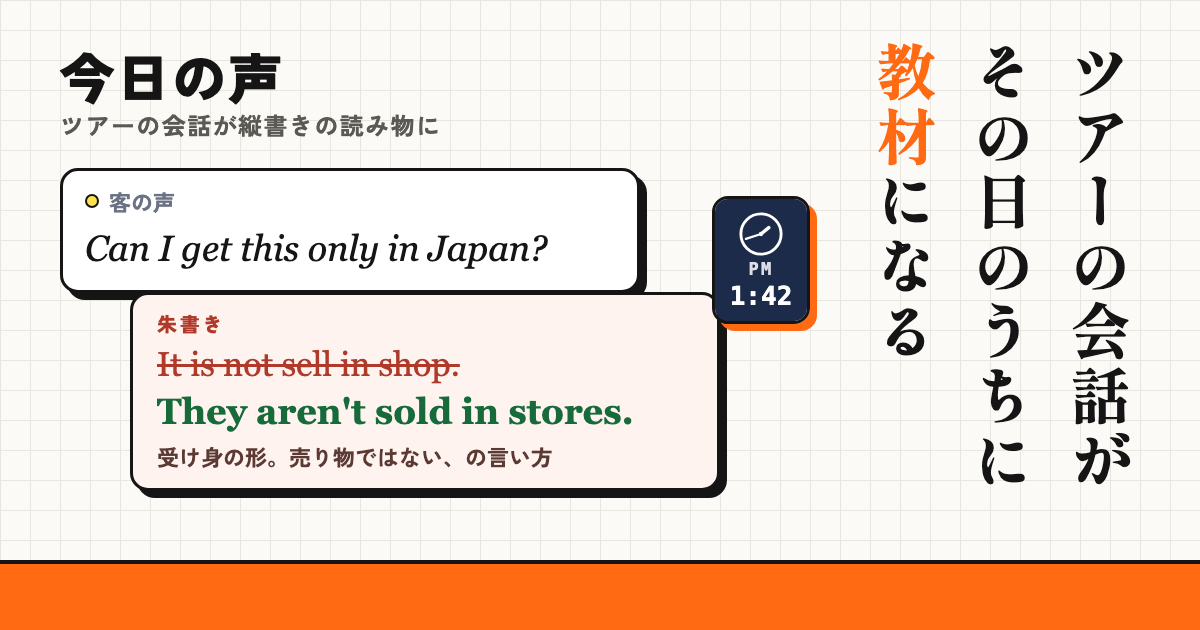
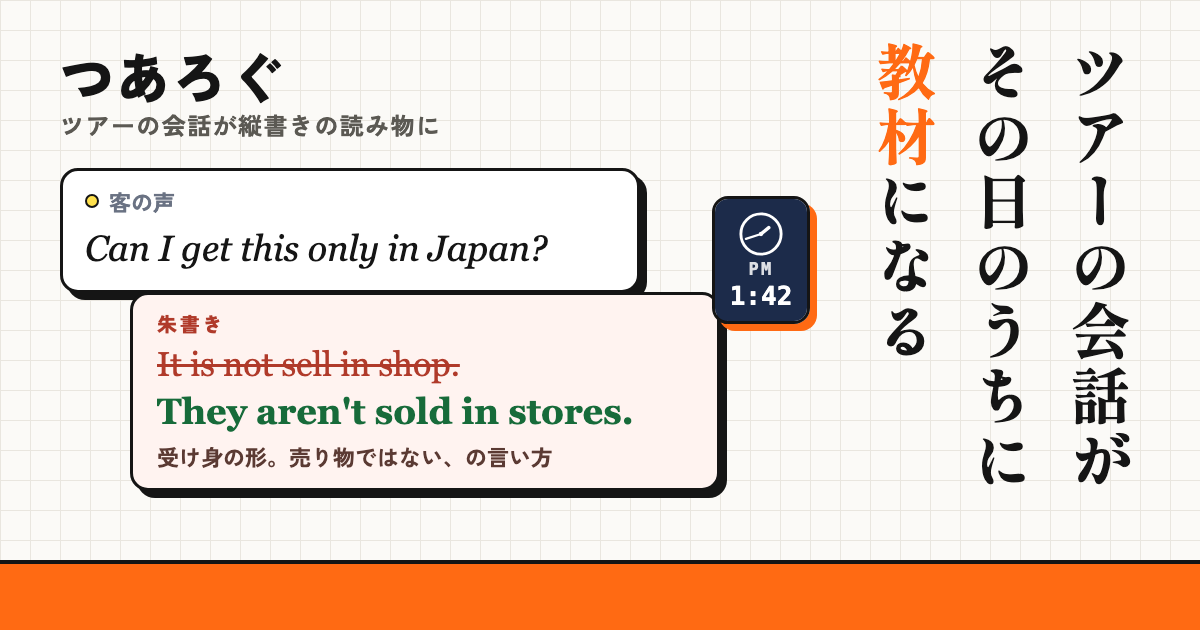
サービス名を今日の声からつあろぐ(Tour Log)に改名

Changed region(s): [[0.0617, 0.0905, 0.2467, 0.181]]

diff --git a/c1/index.html b/c1/index.html
@@ -1,11 +1,11 @@
 <!doctype html><html lang="ja"><head><meta charset="utf-8"><meta name="viewport" content="width=device-width,initial-scale=1,viewport-fit=cover">
 <meta name="robots" content="noindex,nofollow"><meta name="description" content="胸につけたマイクで録るだけ。写真つきの縦書きのページと、英語の言い直し案ができます。">
-<meta property="og:type" content="website"><meta property="og:site_name" content="今日の声"><meta property="og:locale" content="ja_JP">
-<meta property="og:title" content="今日の声｜ツアーの会話が縦書きの読み物になる"><meta property="og:description" content="胸につけたマイクで録るだけ。写真つきの縦書きのページと、英語の言い直し案ができます。"><meta property="og:url" content="https://yukitchy.github.io/kyo-no-koe/c1/">
-<meta property="og:image" content="https://yukitchy.github.io/kyo-no-koe/img/c1.png"><meta property="og:image:width" content="1200"><meta property="og:image:height" content="630"><meta property="og:image:alt" content="今日の声｜ツアーの会話が縦書きの読み物になる">
-<meta name="twitter:card" content="summary_large_image"><meta name="twitter:title" content="今日の声｜ツアーの会話が縦書きの読み物になる"><meta name="twitter:description" content="胸につけたマイクで録るだけ。写真つきの縦書きのページと、英語の言い直し案ができます。"><meta name="twitter:image" content="https://yukitchy.github.io/kyo-no-koe/img/c1.png">
+<meta property="og:type" content="website"><meta property="og:site_name" content="つあろぐ"><meta property="og:locale" content="ja_JP">
+<meta property="og:title" content="つあろぐ｜ツアーの会話が縦書きの読み物になる"><meta property="og:description" content="胸につけたマイクで録るだけ。写真つきの縦書きのページと、英語の言い直し案ができます。"><meta property="og:url" content="https://yukitchy.github.io/kyo-no-koe/c1/">
+<meta property="og:image" content="https://yukitchy.github.io/kyo-no-koe/img/c1.png"><meta property="og:image:width" content="1200"><meta property="og:image:height" content="630"><meta property="og:image:alt" content="つあろぐ｜ツアーの会話が縦書きの読み物になる">
+<meta name="twitter:card" content="summary_large_image"><meta name="twitter:title" content="つあろぐ｜ツアーの会話が縦書きの読み物になる"><meta name="twitter:description" content="胸につけたマイクで録るだけ。写真つきの縦書きのページと、英語の言い直し案ができます。"><meta name="twitter:image" content="https://yukitchy.github.io/kyo-no-koe/img/c1.png">
 <link rel="icon" href="https://yukitchy.github.io/kyo-no-koe/favicon.svg" type="image/svg+xml"><link rel="apple-touch-icon" href="https://yukitchy.github.io/kyo-no-koe/apple-touch-icon.png">
-<title>今日の声｜ツアーの会話が縦書きの読み物になる</title>
+<title>つあろぐ｜ツアーの会話が縦書きの読み物になる</title>
 <meta name="claude:viewport-fit-sides" content="cover">
 <link rel="preconnect" href="https://fonts.googleapis.com">
 <link rel="preconnect" href="https://fonts.gstatic.com" crossorigin>
@@ -126,7 +126,7 @@ details p{padding:12px 16px 16px;font-size:14.5px;line-height:1.8;border-top:2px
 :focus-visible{outline:3px solid var(--orange);outline-offset:2px}
 </style>
 
-<div class="hd-wrap"><div class="bar"><b>今日の声</b><a href="#sample">見本を見る</a></div></div>
+<div class="hd-wrap"><div class="bar"><b>つあろぐ</b><a href="#sample">見本を見る</a></div></div>
 <main>
 <section class="hero in">
   <p class="eyebrow">ガイド育成のための記録ツール</p>

diff --git a/c2/index.html b/c2/index.html
@@ -1,11 +1,11 @@
 <!doctype html><html lang="ja"><head><meta charset="utf-8"><meta name="viewport" content="width=device-width,initial-scale=1,viewport-fit=cover">
 <meta name="robots" content="noindex,nofollow"><meta name="description" content="ガイド育成のための記録ツール。ガイドの作業はマイク1つだけです。">
-<meta property="og:type" content="website"><meta property="og:site_name" content="今日の声"><meta property="og:locale" content="ja_JP">
-<meta property="og:title" content="今日の声｜ツアーの会話がその日のうちに教材になる"><meta property="og:description" content="ガイド育成のための記録ツール。ガイドの作業はマイク1つだけです。"><meta property="og:url" content="https://yukitchy.github.io/kyo-no-koe/c2/">
-<meta property="og:image" content="https://yukitchy.github.io/kyo-no-koe/img/c2.png"><meta property="og:image:width" content="1200"><meta property="og:image:height" content="630"><meta property="og:image:alt" content="今日の声｜ツアーの会話がその日のうちに教材になる">
-<meta name="twitter:card" content="summary_large_image"><meta name="twitter:title" content="今日の声｜ツアーの会話がその日のうちに教材になる"><meta name="twitter:description" content="ガイド育成のための記録ツール。ガイドの作業はマイク1つだけです。"><meta name="twitter:image" content="https://yukitchy.github.io/kyo-no-koe/img/c2.png">
+<meta property="og:type" content="website"><meta property="og:site_name" content="つあろぐ"><meta property="og:locale" content="ja_JP">
+<meta property="og:title" content="つあろぐ｜ツアーの会話がその日のうちに教材になる"><meta property="og:description" content="ガイド育成のための記録ツール。ガイドの作業はマイク1つだけです。"><meta property="og:url" content="https://yukitchy.github.io/kyo-no-koe/c2/">
+<meta property="og:image" content="https://yukitchy.github.io/kyo-no-koe/img/c2.png"><meta property="og:image:width" content="1200"><meta property="og:image:height" content="630"><meta property="og:image:alt" content="つあろぐ｜ツアーの会話がその日のうちに教材になる">
+<meta name="twitter:card" content="summary_large_image"><meta name="twitter:title" content="つあろぐ｜ツアーの会話がその日のうちに教材になる"><meta name="twitter:description" content="ガイド育成のための記録ツール。ガイドの作業はマイク1つだけです。"><meta name="twitter:image" content="https://yukitchy.github.io/kyo-no-koe/img/c2.png">
 <link rel="icon" href="https://yukitchy.github.io/kyo-no-koe/favicon.svg" type="image/svg+xml"><link rel="apple-touch-icon" href="https://yukitchy.github.io/kyo-no-koe/apple-touch-icon.png">
-<title>今日の声｜ツアーの会話がその日のうちに教材になる</title>
+<title>つあろぐ｜ツアーの会話がその日のうちに教材になる</title>
 <meta name="claude:viewport-fit-sides" content="cover">
 <link rel="preconnect" href="https://fonts.googleapis.com">
 <link rel="preconnect" href="https://fonts.gstatic.com" crossorigin>
@@ -126,7 +126,7 @@ details p{padding:12px 16px 16px;font-size:14.5px;line-height:1.8;border-top:2px
 :focus-visible{outline:3px solid var(--orange);outline-offset:2px}
 </style>
 
-<div class="hd-wrap"><div class="bar"><b>今日の声</b><a href="#sample">見本を見る</a></div></div>
+<div class="hd-wrap"><div class="bar"><b>つあろぐ</b><a href="#sample">見本を見る</a></div></div>
 <main>
 <section class="hero in">
   <p class="eyebrow">ガイド育成のための記録ツール</p>

diff --git a/c3/index.html b/c3/index.html
@@ -1,11 +1,11 @@
 <!doctype html><html lang="ja"><head><meta charset="utf-8"><meta name="viewport" content="width=device-width,initial-scale=1,viewport-fit=cover">
 <meta name="robots" content="noindex,nofollow"><meta name="description" content="時刻と短い題だけが並ぶ目次から、研修で見せたい場面をすぐ開けます。">
-<meta property="og:type" content="website"><meta property="og:site_name" content="今日の声"><meta property="og:locale" content="ja_JP">
-<meta property="og:title" content="今日の声｜2時間半の録音が20行の目次になる"><meta property="og:description" content="時刻と短い題だけが並ぶ目次から、研修で見せたい場面をすぐ開けます。"><meta property="og:url" content="https://yukitchy.github.io/kyo-no-koe/c3/">
-<meta property="og:image" content="https://yukitchy.github.io/kyo-no-koe/img/c3.png"><meta property="og:image:width" content="1200"><meta property="og:image:height" content="630"><meta property="og:image:alt" content="今日の声｜2時間半の録音が20行の目次になる">
-<meta name="twitter:card" content="summary_large_image"><meta name="twitter:title" content="今日の声｜2時間半の録音が20行の目次になる"><meta name="twitter:description" content="時刻と短い題だけが並ぶ目次から、研修で見せたい場面をすぐ開けます。"><meta name="twitter:image" content="https://yukitchy.github.io/kyo-no-koe/img/c3.png">
+<meta property="og:type" content="website"><meta property="og:site_name" content="つあろぐ"><meta property="og:locale" content="ja_JP">
+<meta property="og:title" content="つあろぐ｜2時間半の録音が20行の目次になる"><meta property="og:description" content="時刻と短い題だけが並ぶ目次から、研修で見せたい場面をすぐ開けます。"><meta property="og:url" content="https://yukitchy.github.io/kyo-no-koe/c3/">
+<meta property="og:image" content="https://yukitchy.github.io/kyo-no-koe/img/c3.png"><meta property="og:image:width" content="1200"><meta property="og:image:height" content="630"><meta property="og:image:alt" content="つあろぐ｜2時間半の録音が20行の目次になる">
+<meta name="twitter:card" content="summary_large_image"><meta name="twitter:title" content="つあろぐ｜2時間半の録音が20行の目次になる"><meta name="twitter:description" content="時刻と短い題だけが並ぶ目次から、研修で見せたい場面をすぐ開けます。"><meta name="twitter:image" content="https://yukitchy.github.io/kyo-no-koe/img/c3.png">
 <link rel="icon" href="https://yukitchy.github.io/kyo-no-koe/favicon.svg" type="image/svg+xml"><link rel="apple-touch-icon" href="https://yukitchy.github.io/kyo-no-koe/apple-touch-icon.png">
-<title>今日の声｜2時間半の録音が20行の目次になる</title>
+<title>つあろぐ｜2時間半の録音が20行の目次になる</title>
 <meta name="claude:viewport-fit-sides" content="cover">
 <link rel="preconnect" href="https://fonts.googleapis.com">
 <link rel="preconnect" href="https://fonts.gstatic.com" crossorigin>
@@ -126,7 +126,7 @@ details p{padding:12px 16px 16px;font-size:14.5px;line-height:1.8;border-top:2px
 :focus-visible{outline:3px solid var(--orange);outline-offset:2px}
 </style>
 
-<div class="hd-wrap"><div class="bar"><b>今日の声</b><a href="#sample">見本を見る</a></div></div>
+<div class="hd-wrap"><div class="bar"><b>つあろぐ</b><a href="#sample">見本を見る</a></div></div>
 <main>
 <section class="hero in">
   <p class="eyebrow">ガイド育成のための記録ツール</p>

diff --git a/c4/index.html b/c4/index.html
@@ -1,11 +1,11 @@
 <!doctype html><html lang="ja"><head><meta charset="utf-8"><meta name="viewport" content="width=device-width,initial-scale=1,viewport-fit=cover">
 <meta name="robots" content="noindex,nofollow"><meta name="description" content="録ったその日に、写真つきの縦書きの読み物ができます。">
-<meta property="og:type" content="website"><meta property="og:site_name" content="今日の声"><meta property="og:locale" content="ja_JP">
-<meta property="og:title" content="今日の声｜録る・文字に・まとめる・読むの4ステップ"><meta property="og:description" content="録ったその日に、写真つきの縦書きの読み物ができます。"><meta property="og:url" content="https://yukitchy.github.io/kyo-no-koe/c4/">
-<meta property="og:image" content="https://yukitchy.github.io/kyo-no-koe/img/c4.png"><meta property="og:image:width" content="1200"><meta property="og:image:height" content="630"><meta property="og:image:alt" content="今日の声｜録る・文字に・まとめる・読むの4ステップ">
-<meta name="twitter:card" content="summary_large_image"><meta name="twitter:title" content="今日の声｜録る・文字に・まとめる・読むの4ステップ"><meta name="twitter:description" content="録ったその日に、写真つきの縦書きの読み物ができます。"><meta name="twitter:image" content="https://yukitchy.github.io/kyo-no-koe/img/c4.png">
+<meta property="og:type" content="website"><meta property="og:site_name" content="つあろぐ"><meta property="og:locale" content="ja_JP">
+<meta property="og:title" content="つあろぐ｜録る・文字に・まとめる・読むの4ステップ"><meta property="og:description" content="録ったその日に、写真つきの縦書きの読み物ができます。"><meta property="og:url" content="https://yukitchy.github.io/kyo-no-koe/c4/">
+<meta property="og:image" content="https://yukitchy.github.io/kyo-no-koe/img/c4.png"><meta property="og:image:width" content="1200"><meta property="og:image:height" content="630"><meta property="og:image:alt" content="つあろぐ｜録る・文字に・まとめる・読むの4ステップ">
+<meta name="twitter:card" content="summary_large_image"><meta name="twitter:title" content="つあろぐ｜録る・文字に・まとめる・読むの4ステップ"><meta name="twitter:description" content="録ったその日に、写真つきの縦書きの読み物ができます。"><meta name="twitter:image" content="https://yukitchy.github.io/kyo-no-koe/img/c4.png">
 <link rel="icon" href="https://yukitchy.github.io/kyo-no-koe/favicon.svg" type="image/svg+xml"><link rel="apple-touch-icon" href="https://yukitchy.github.io/kyo-no-koe/apple-touch-icon.png">
-<title>今日の声｜録る・文字に・まとめる・読むの4ステップ</title>
+<title>つあろぐ｜録る・文字に・まとめる・読むの4ステップ</title>
 <meta name="claude:viewport-fit-sides" content="cover">
 <link rel="preconnect" href="https://fonts.googleapis.com">
 <link rel="preconnect" href="https://fonts.gstatic.com" crossorigin>
@@ -126,7 +126,7 @@ details p{padding:12px 16px 16px;font-size:14.5px;line-height:1.8;border-top:2px
 :focus-visible{outline:3px solid var(--orange);outline-offset:2px}
 </style>
 
-<div class="hd-wrap"><div class="bar"><b>今日の声</b><a href="#sample">見本を見る</a></div></div>
+<div class="hd-wrap"><div class="bar"><b>つあろぐ</b><a href="#sample">見本を見る</a></div></div>
 <main>
 <section class="hero in">
   <p class="eyebrow">ガイド育成のための記録ツール</p>

diff --git a/index.html b/index.html
@@ -1,11 +1,11 @@
 <!doctype html><html lang="ja"><head><meta charset="utf-8"><meta name="viewport" content="width=device-width,initial-scale=1,viewport-fit=cover">
 <meta name="robots" content="noindex,nofollow"><meta name="description" content="録ったその日に、写真つきの縦書きの読み物ができます。">
-<meta property="og:type" content="website"><meta property="og:site_name" content="今日の声"><meta property="og:locale" content="ja_JP">
-<meta property="og:title" content="今日の声｜録る・文字に・まとめる・読むの4ステップ"><meta property="og:description" content="録ったその日に、写真つきの縦書きの読み物ができます。"><meta property="og:url" content="https://yukitchy.github.io/kyo-no-koe/">
-<meta property="og:image" content="https://yukitchy.github.io/kyo-no-koe/img/c4.png"><meta property="og:image:width" content="1200"><meta property="og:image:height" content="630"><meta property="og:image:alt" content="今日の声｜録る・文字に・まとめる・読むの4ステップ">
-<meta name="twitter:card" content="summary_large_image"><meta name="twitter:title" content="今日の声｜録る・文字に・まとめる・読むの4ステップ"><meta name="twitter:description" content="録ったその日に、写真つきの縦書きの読み物ができます。"><meta name="twitter:image" content="https://yukitchy.github.io/kyo-no-koe/img/c4.png">
+<meta property="og:type" content="website"><meta property="og:site_name" content="つあろぐ"><meta property="og:locale" content="ja_JP">
+<meta property="og:title" content="つあろぐ｜録る・文字に・まとめる・読むの4ステップ"><meta property="og:description" content="録ったその日に、写真つきの縦書きの読み物ができます。"><meta property="og:url" content="https://yukitchy.github.io/kyo-no-koe/">
+<meta property="og:image" content="https://yukitchy.github.io/kyo-no-koe/img/c4.png"><meta property="og:image:width" content="1200"><meta property="og:image:height" content="630"><meta property="og:image:alt" content="つあろぐ｜録る・文字に・まとめる・読むの4ステップ">
+<meta name="twitter:card" content="summary_large_image"><meta name="twitter:title" content="つあろぐ｜録る・文字に・まとめる・読むの4ステップ"><meta name="twitter:description" content="録ったその日に、写真つきの縦書きの読み物ができます。"><meta name="twitter:image" content="https://yukitchy.github.io/kyo-no-koe/img/c4.png">
 <link rel="icon" href="https://yukitchy.github.io/kyo-no-koe/favicon.svg" type="image/svg+xml"><link rel="apple-touch-icon" href="https://yukitchy.github.io/kyo-no-koe/apple-touch-icon.png">
-<title>今日の声｜録る・文字に・まとめる・読むの4ステップ</title>
+<title>つあろぐ｜録る・文字に・まとめる・読むの4ステップ</title>
 <meta name="claude:viewport-fit-sides" content="cover">
 <link rel="preconnect" href="https://fonts.googleapis.com">
 <link rel="preconnect" href="https://fonts.gstatic.com" crossorigin>
@@ -126,7 +126,7 @@ details p{padding:12px 16px 16px;font-size:14.5px;line-height:1.8;border-top:2px
 :focus-visible{outline:3px solid var(--orange);outline-offset:2px}
 </style>
 
-<div class="hd-wrap"><div class="bar"><b>今日の声</b><a href="#sample">見本を見る</a></div></div>
+<div class="hd-wrap"><div class="bar"><b>つあろぐ</b><a href="#sample">見本を見る</a></div></div>
 <main>
 <section class="hero in">
   <p class="eyebrow">ガイド育成のための記録ツール</p>

diff --git a/c5/index.html b/c5/index.html
@@ -1,11 +1,11 @@
 <!doctype html><html lang="ja"><head><meta charset="utf-8"><meta name="viewport" content="width=device-width,initial-scale=1,viewport-fit=cover">
 <meta name="robots" content="noindex,nofollow"><meta name="description" content="11/6の1本で、57場面を20行の目次にまとめました。ツアーガイドの育成向けです。">
-<meta property="og:type" content="website"><meta property="og:site_name" content="今日の声"><meta property="og:locale" content="ja_JP">
-<meta property="og:title" content="今日の声｜144分の会話が20行になる"><meta property="og:description" content="11/6の1本で、57場面を20行の目次にまとめました。ツアーガイドの育成向けです。"><meta property="og:url" content="https://yukitchy.github.io/kyo-no-koe/c5/">
-<meta property="og:image" content="https://yukitchy.github.io/kyo-no-koe/img/c5.png"><meta property="og:image:width" content="1200"><meta property="og:image:height" content="630"><meta property="og:image:alt" content="今日の声｜144分の会話が20行になる">
-<meta name="twitter:card" content="summary_large_image"><meta name="twitter:title" content="今日の声｜144分の会話が20行になる"><meta name="twitter:description" content="11/6の1本で、57場面を20行の目次にまとめました。ツアーガイドの育成向けです。"><meta name="twitter:image" content="https://yukitchy.github.io/kyo-no-koe/img/c5.png">
+<meta property="og:type" content="website"><meta property="og:site_name" content="つあろぐ"><meta property="og:locale" content="ja_JP">
+<meta property="og:title" content="つあろぐ｜144分の会話が20行になる"><meta property="og:description" content="11/6の1本で、57場面を20行の目次にまとめました。ツアーガイドの育成向けです。"><meta property="og:url" content="https://yukitchy.github.io/kyo-no-koe/c5/">
+<meta property="og:image" content="https://yukitchy.github.io/kyo-no-koe/img/c5.png"><meta property="og:image:width" content="1200"><meta property="og:image:height" content="630"><meta property="og:image:alt" content="つあろぐ｜144分の会話が20行になる">
+<meta name="twitter:card" content="summary_large_image"><meta name="twitter:title" content="つあろぐ｜144分の会話が20行になる"><meta name="twitter:description" content="11/6の1本で、57場面を20行の目次にまとめました。ツアーガイドの育成向けです。"><meta name="twitter:image" content="https://yukitchy.github.io/kyo-no-koe/img/c5.png">
 <link rel="icon" href="https://yukitchy.github.io/kyo-no-koe/favicon.svg" type="image/svg+xml"><link rel="apple-touch-icon" href="https://yukitchy.github.io/kyo-no-koe/apple-touch-icon.png">
-<title>今日の声｜144分の会話が20行になる</title>
+<title>つあろぐ｜144分の会話が20行になる</title>
 <meta name="claude:viewport-fit-sides" content="cover">
 <link rel="preconnect" href="https://fonts.googleapis.com">
 <link rel="preconnect" href="https://fonts.gstatic.com" crossorigin>
@@ -126,7 +126,7 @@ details p{padding:12px 16px 16px;font-size:14.5px;line-height:1.8;border-top:2px
 :focus-visible{outline:3px solid var(--orange);outline-offset:2px}
 </style>
 
-<div class="hd-wrap"><div class="bar"><b>今日の声</b><a href="#sample">見本を見る</a></div></div>
+<div class="hd-wrap"><div class="bar"><b>つあろぐ</b><a href="#sample">見本を見る</a></div></div>
 <main>
 <section class="hero in">
   <p class="eyebrow">ガイド育成のための記録ツール</p>
